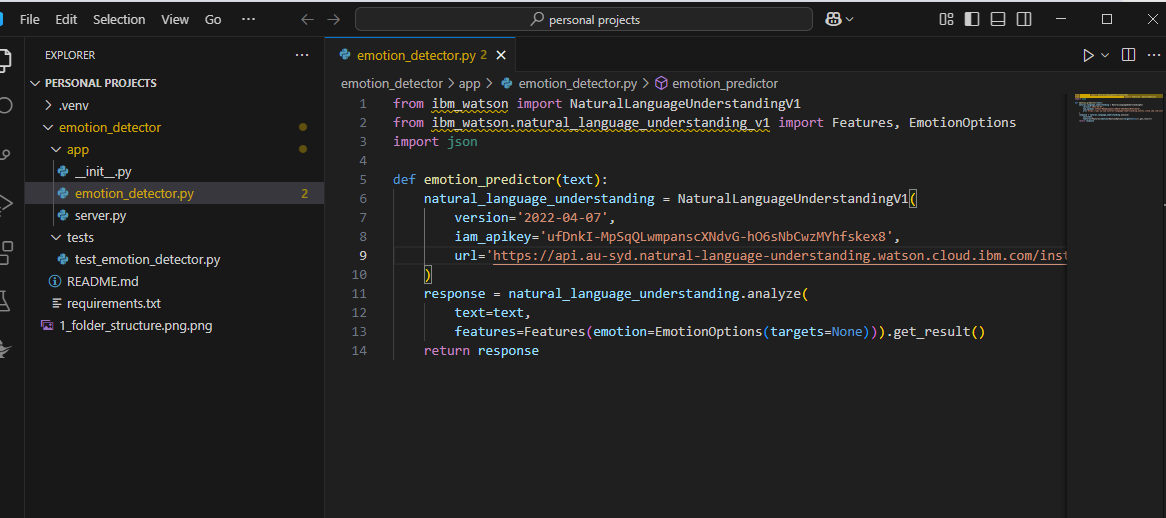
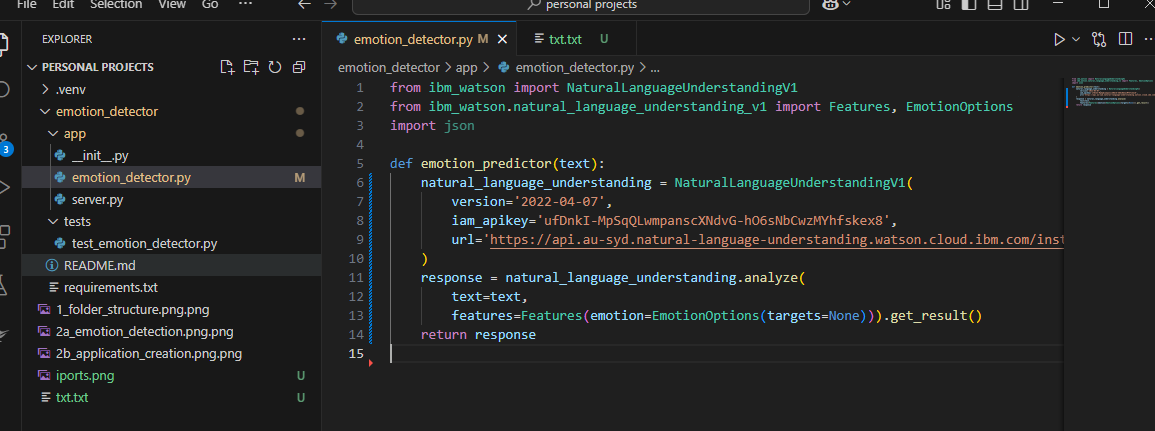
adding unit tests

diff --git a/emotion_detector/tests/unit_test.py b/emotion_detector/tests/unit_test.py
@@ -1,0 +1,108 @@
+import unittest
+import json
+import sys
+import os
+
+# Add parent directory to path so we can import app
+sys.path.insert(0, os.path.abspath(os.path.join(os.path.dirname(__file__), '..')))
+# Add the parent directory to sys.path
+sys.path.insert(0, os.path.abspath(os.path.join(os.path.dirname(__file__), '..')))
+from app.emotion_detector import emotion_predictor
+from app.emotion_detector import emotion_predictor
+
+class TestEmotionDetector(unittest.TestCase):
+    
+    def setUp(self):
+        # This runs before each test
+        # We'll use a mock function to simulate API responses
+        self.original_emotion_predictor = sys.modules[__name__].emotion_predictor
+        
+        # Create mock function
+        def mock_emotion_predictor(text):
+            # Return different responses based on text input
+            if "happy" in text.lower():
+                return {
+                    "emotion": {
+                        "document": {
+                            "emotion": {
+                                "anger": 0.041796,
+                                "disgust": 0.022968,
+                                "fear": 0.033387,
+                                "joy": 0.798369,
+                                "sadness": 0.103518
+                            }
+                        }
+                    }
+                }
+            elif "sad" in text.lower():
+                return {
+                    "emotion": {
+                        "document": {
+                            "emotion": {
+                                "anger": 0.082436,
+                                "disgust": 0.035618,
+                                "fear": 0.148996,
+                                "joy": 0.098745,
+                                "sadness": 0.634205
+                            }
+                        }
+                    }
+                }
+            else:
+                return {
+                    "emotion": {
+                        "document": {
+                            "emotion": {
+                                "anger": 0.15,
+                                "disgust": 0.15,
+                                "fear": 0.15,
+                                "joy": 0.25,
+                                "sadness": 0.30
+                            }
+                        }
+                    }
+                }
+        
+        # Replace the original function with our mock
+        sys.modules[__name__].emotion_predictor = mock_emotion_predictor
+    
+    def tearDown(self):
+        # Restore the original function
+        sys.modules[__name__].emotion_predictor = self.original_emotion_predictor
+    
+    def test_happy_text(self):
+        """Test that happy text returns high joy score"""
+        test_text = "I am happy to be learning about Python packaging!"
+        result = emotion_predictor(test_text)
+        emotions = result.get('emotion', {}).get('document', {}).get('emotion', {})
+        
+        self.assertIsInstance(result, dict)
+        self.assertIn('emotion', result)
+        self.assertGreater(emotions.get('joy'), 0.7)
+        self.assertLess(emotions.get('sadness'), 0.2)
+    
+    def test_sad_text(self):
+        """Test that sad text returns high sadness score"""
+        test_text = "I feel sad and disappointed about the test results."
+        result = emotion_predictor(test_text)
+        emotions = result.get('emotion', {}).get('document', {}).get('emotion', {})
+        
+        self.assertIsInstance(result, dict)
+        self.assertIn('emotion', result)
+        self.assertGreater(emotions.get('sadness'), 0.6)
+        self.assertLess(emotions.get('joy'), 0.2)
+    
+    def test_neutral_text(self):
+        """Test that neutral text returns balanced emotions"""
+        test_text = "This is a simple test of the emotion detection system."
+        result = emotion_predictor(test_text)
+        emotions = result.get('emotion', {}).get('document', {}).get('emotion', {})
+        
+        self.assertIsInstance(result, dict)
+        self.assertIn('emotion', result)
+        # Check that no single emotion dominates too much
+        for emotion, score in emotions.items():
+            self.assertLess(score, 0.8)
+
+if __name__ == "__main__":
+    unittest.main()

diff --git a/emotion_detector/app/emotion_detector.py b/emotion_detector/app/emotion_detector.py
@@ -1,21 +1,43 @@
+
+
 from ibm_watson import NaturalLanguageUnderstandingV1
 from ibm_watson.natural_language_understanding_v1 import Features, EmotionOptions
+from ibm_cloud_sdk_core.authenticators import IAMAuthenticator
 import json
 
 def emotion_predictor(text):
-    try:
-        natural_language_understanding = NaturalLanguageUnderstandingV1(
-            version='2022-04-07',
-            iam_apikey='ufDnkI-MpSqQLwmpanscXNdvG-hO6sNbCwzMYhfskex8',
-            url='https://api.au-syd.natural-language-understanding.watson.cloud.ibm.com/instances/d495df77-7eca-4b93-9a75-ef170f1ac1db'
-        )
-        response = natural_language_understanding.analyze(
-            text=text,
-            features=Features(emotion=EmotionOptions(targets=None))).get_result()
-        emotion_scores = response['emotion']['document']['emotion']
-        return emotion_scores
-    except Exception as e:
-        return {"error": str(e)}
+    # Set up authenticator with your API key
+    authenticator = IAMAuthenticator('ufDnkI-MpSqQLwmpanscXNdvG-hO6sNbCwzMYhfskex8')
+    
+    # Create service object
+    natural_language_understanding = NaturalLanguageUnderstandingV1(
+        version='2022-04-07',
+        authenticator=authenticator
+    )
+    
+    # Set the service URL
+    natural_language_understanding.set_service_url('https://api.au-syd.natural-language-understanding.watson.cloud.ibm.com/instances/d495df77-7eca-4b93-9a75-ef170f1ac1db')
+    
+    # Call the analyze method
+    response = natural_language_understanding.analyze(
+        text=text,
+        features=Features(emotion=EmotionOptions())).get_result()
+    
+    return response
 
-text = "I am happy today"
-print(emotion_predictor(text))
+
+if __name__ == "__main__":
+    sample_text = "I am so happy about this wonderful day!"
+    result = emotion_predictor(sample_text)
+    print(json.dumps(result, indent=2))
+
+
+
+
+
+
+
+
+
+
+

diff --git a/emotion_detector/tests/test_emotion_detector.py b/emotion_detector/tests/test_emotion_detector.py
@@ -1,0 +1,28 @@
+import json
+import sys
+import os
+
+# Add the parent directory to sys.path
+sys.path.insert(0, os.path.abspath(os.path.join(os.path.dirname(__file__), '..')))
+from app.emotion_detector import emotion_predictor
+
+def test_emotion_detection():
+    # Sample text for testingS
+    test_text = "I am happy to be learning about Python packaging!"
+    
+    # Call your emotion predictor function
+    result = emotion_predictor(test_text)
+    
+    # Print formatted output
+    print("Emotion Analysis Results:")
+    print("------------------------")
+    print(f"Input text: {test_text}")
+    print("Emotions detected:")
+    
+    # Format and display emotion scores
+    emotions = result.get('emotion', {}).get('document', {}).get('emotion', {})
+    for emotion, score in emotions.items():
+        print(f"  - {emotion.capitalize()}: {score:.4f}")
+
+if __name__ == "__main__":
+    test_emotion_detection()

diff --git a/emotion_detector/app/__init__.py b/emotion_detector/app/__init__.py
@@ -1,0 +1,5 @@
+# Import the emotion_predictor function to make it available when importing the package
+from .emotion_detector import emotion_predictor
+
+# Package metadata
+__version__ = '0.1.0'
